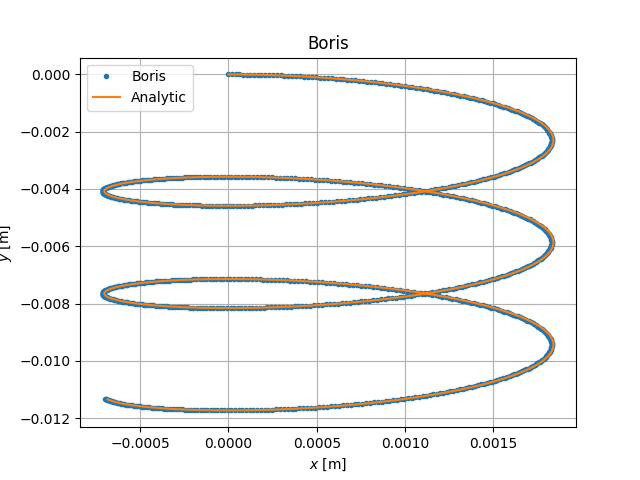
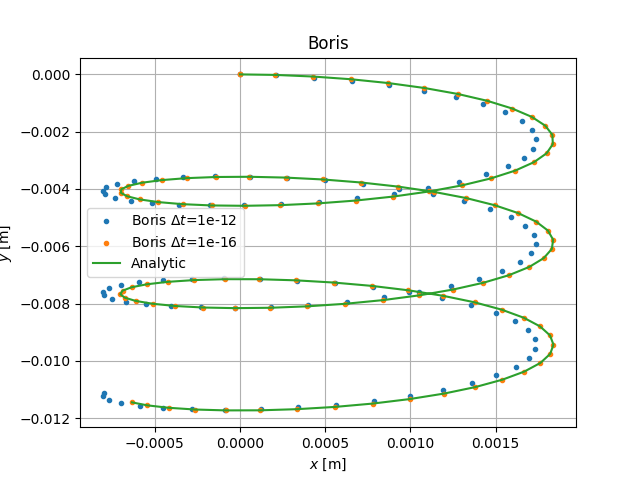
Updated README.md

diff --git a/boris.cpp b/boris.cpp
@@ -18,12 +18,11 @@ void borisUpdateVelocity(std::vector<Particle>& particles, double timeStep, cons
     }
 }
 
-int main() {
+void run_boris(double timeStep, const std::string& filename) {
     double time = 0;
     int step = 0;
-    double timeStep = 1e-13;
     double finalTime = 1e-10;
-    int printCount = 1000;
+    int printCount = 100;
     auto steps = (int) std::round(finalTime/timeStep);
     int printAfterSteps = steps / printCount;
 
@@ -53,5 +52,11 @@ int main() {
 
     std::cout << "Execution took: " << duration << "s." << std::endl;
 
-    saveTrajectories("data/boris_trajectories.csv", particles);
+    saveTrajectories(filename, particles);
 }
+
+int main(int argc, char *argv[]) {
+    run_boris(1e-12, "data/boris_trajectories_e-12.csv");
+    run_boris(1e-16, "data/boris_trajectories_e-16.csv");
+}
+

diff --git a/scripts/evaluate_boris.py b/scripts/evaluate_boris.py
@@ -6,11 +6,17 @@ from matplotlib import pyplot as plt
 if __name__ == '__main__':
     loc = pathlib.Path(__file__).parent.absolute()
 
-    data = np.genfromtxt(path.join(loc, "../data/boris_trajectories.csv"), delimiter=",")
+    data = np.genfromtxt(path.join(loc, "../data/boris_trajectories_e-12.csv"), delimiter=",")
     t = data[:, 0]
     particle_data = data[:, 1:7]
 
-    plt.plot(particle_data[:, 0], particle_data[:, 1], ".", label="Boris")
+    plt.plot(particle_data[:, 0], particle_data[:, 1], ".", label="Boris $\\Delta t$=1e-12")
+
+    data = np.genfromtxt(path.join(loc, "../data/boris_trajectories_e-16.csv"), delimiter=",")
+    t = data[:, 0]
+    particle_data = data[:, 1:7]
+
+    plt.plot(particle_data[:, 0], particle_data[:, 1], ".", label="Boris $\\Delta t$=1e-16")
 
     E = 1e8
     B = 1

diff --git a/scripts/evaluate_carlo.py b/scripts/evaluate_carlo.py
@@ -15,3 +15,15 @@ if __name__ == '__main__':
     plt.xlabel("Grid size")
     plt.ylabel("Simulation time")
     plt.savefig(path.join(loc, "../images/carlo.png"))
+    plt.clf()
+
+    data = np.genfromtxt(path.join(loc, "../data/carlo_precision.csv"), delimiter=",")
+    plt.grid()
+    plt.title("Monte carlo simulation precision")
+    plt.xlabel("Potential")
+    plt.ylabel("$f$ [-]")
+    plt.hist(data, density=True, bins=30,  label="Potential")
+    print(np.mean(data), np.std(data))
+    print(np.mean(data) - np.exp(-2*0.5)*np.cos(2*0.5))
+    plt.savefig(path.join(loc, "../images/carlo_precision.png"))
+

diff --git a/carlo.cpp b/carlo.cpp
@@ -149,6 +149,11 @@ int main() {
         auto result = scalingTest(gridSize);
         file << gridSize << "," << result.duration << std::endl;
     }
-    std::cout << scalingTest(202).potential - boundaryFunction({0.5,0.5}) << std::endl;
+
+    std::ofstream filePrecision("data/carlo_precision.csv");
+    for (int i = 0; i < 100; i++){
+        filePrecision << scalingTest(202).potential << std::endl;
+    }
+
     return 0;
 }

diff --git a/README.md b/README.md
@@ -1,0 +1,91 @@
+PMPL
+====
+
+V této složce (`./`) se nacházejí řešená cvičení. Každému cvičení je přiřazen jeden soubor `.cpp`
+s definicí `main`. Kompilací a během těchto lze vygenerovat výsledky do složky `./data`. Neexistuje-li tato složka, je
+ji třeba manuálně vytvořit. Data nejsou součástí repozitáře z důvodu velikosti.
+
+Pro vizualizaci výsledků jsou napsané skripty ve složce `./scripts`. Pro jejich správný
+běh je zapotřebí Python 3 a data ze složky `./data`. Obrázky a videa jsou
+generovány do složky `./images`. Referenční výsledky jsou součástí repozitáře.
+
+Komentáře ke kódu
+-----------------
+Kód je navržen tak aby usnadňoval orientaci a pochopení. V reálném případě bych neprováděl
+deklarace v `.cpp` souborech a obecně sdílel více logiky. 
+
+Kód je okomentován přímo v souborech. Komntáře jsou u funkcí, kterým je třeba věnovat pozornost
+pro pochopení funkcionality. Neokomentované funkce by měli mít zřejmý účel, k jehož pochopení
+postačují jméno a parametry.
+
+Krátký přehled výsledků
+-----------------------
+Pojmenování jednotlivých úloh je zde zavedeno pro snažší orientaci. Nevystihuje však celou podstatu
+prováděných výpočtů a může tak být zavádějící. 
+
+**Solární systém**
+
+Metodu leap-frog jsou vypočítany trajektrie Země, Slunce a Měsíce. Dále je pak sledována celková
+změna energie systému. Výsledky jsou na obrázcích `solar.png`, `solar_zoom-png` a `solar_energy.png`.
+Simulace je provedena pro jeden rok. Je patrné, že energie systému se v pruběhu simulace mění,
+ale má peridodický průběh. To v principu opraňuje simulovat i velké množství oběhů. 
+Zajímavé je si povšimnout, že trajektorie Měsíce je dána především vlivem slunce, nikoliv Země.
+
+**Metoda SOR pro výpočet potenciálu**
+
+Metodou SOR je proveden výpočet potenciálu s dirichletovou okrajovou podmínkou danou funkcí
+`exp(-2x)cos(2y)`. Výpočet je proveden bez zdrojů, jedná se tedy o řešení Laplaceovi rovnice.
+Pro výpočet je zvolen optimální parametr `omega`, na základě několika simulací. Tato
+optimalizace je shrnuta na `sor_optimization.png`. Výsledný potenciál je na `sor.png`. Pro
+srovnání s metodou výpočtu pomocí Monte Carlo simulací je tento výpočet proveden na různě velkých
+sítích a zaznamenána délka běhu simulace. Přesná absolutní délka běhu není relevantní,
+je sledován brůběh a řádový odhad. Pro ověření správnosti implmentace byla v průběhu
+vývoje sledována l1-norma rodílu n umerického a anylytického řešení.
+
+**Porezní materiál**
+
+Úloha na porézní materiál byla efektivně převedena na úlohu hledání cesty v grafu.
+Závislost pravděpodobnosti existnce cesty `q` ve 2D diskrétní síti náhodně zaplněné s pravěpodobnostní
+`p` na `p` je na vyobrazena na `porous.png`. Zde dochází k prudkému zlomu okolo `p = 0.4`.
+
+**Monte Carlo**
+
+Metoda Monte Catlo je použita pro výpočet potenciálu v jednom bodě prostoru. Je tak učiněno
+pro konkrétní dirichletovu okrajovou podmínku shodou s metodou SOR. Aplikace na výpočet
+potenciálu mezi elektrodami je pak triviální. Přesnost výsledku je vyhodnocena na základě
+opakování metody činí v bodě (x, y) = (0.5, 0.5) 0.20 +/- 0.01. Prakticky se rozdíl od analytického řešení
+v tomto bodě s pohybuje v řádu tisícin. Vyhodnocení opakování je shrnuta na obrázku `carlo_precision.png`.
+Stejně jako pro SOR je tento výpočet proveden na různě velkých sítích a zaznamenána délka
+běhu simulace. Na základě tohoto je pak uděláno normované srovnání s metodou SOR na
+obrázku `carlo_sor_compare.png`. To ukazuje na fakt, že je potenciálně možné, že simulace
+metodou Monte Carlo budou výhodnější pro velké sítě, kde chceme určit pouze lokální potenciál.
+
+
+**Zdroj částic bez srážek**
+
+Byl naprgramován homogení termální zdroj částic bez úvážování srážek. Bylo zaznamenáno rozdělení
+velikostí rychlostí a to jak objemové na obrázku `collisionless_distribution.png` tak pro částice procházející
+jednou stranou výpočetní oblasti `collisionless_side_distribution`. Pozorovaná kinetická energie
+samozřejmě zůstala v průběhu simulace konstantní, viz. `collisionless_energy.png`.
+Dale bylo ze 10000 částic vybráno 100 a jejich trajektorie byly vyobrazeny v krátké animaci
+`collisionless_trajectories.mp4`.
+
+**Zdroj částic s uvažováním srážek**
+
+Do předchozí simulace byly doplněny srážky s pozadím za předpokladu studeného plazmatu.
+Byla volena konstatní srážková frekvence (účinný průřez). Srážky způsobili změnu teploty, předaním energie
+pozadí, jak je tomu patrné z `collisional_energy.png` a `collisional_distribution.png`.
+Částicím zůstalo termální rozdělení, pouze s jinou teplotou.
+Stejně jako v předchozím případě bylo ze 10000 částic vybráno 100 a jejich trajektorie byly vyobrazeny v krátké animaci
+`collisional_trajectories.mp4`.
+
+**Borisův algoritmus**
+
+Byla naimplementována neralitivistikcá a i relaticistická verze borisova algoritmu. Následně byl sledován elektron
+v konstatním magnetickém poli mířícím ve směru osy z a elektrickém pole ve směru osy x. Trajektorie
+elektronu byla srovnána s nerelativistickým analytickým řešením úlohy na obrázku `boris.png` a to
+pro dva různé časové kroky. Numerické řešení se se zkracujícím se časovým krokem blíží řešení analytickému.
+Dále pak bylo srovnáno neraltivistické řešení s relativistickým a to v případě, že analytická
+driftová byla blízká rychlosti světla na obrázku `boris_relativistic.png`. Zde je patrný jasný rozdíl
+daný právě maximální driftovou rychlostí rovnou rychlosti světla. Pro ověření byla v relativistickém
+případě sledována velikost rychlosti částice. Výsledek je na obrázku `boris_relativistic_speed.png`.
